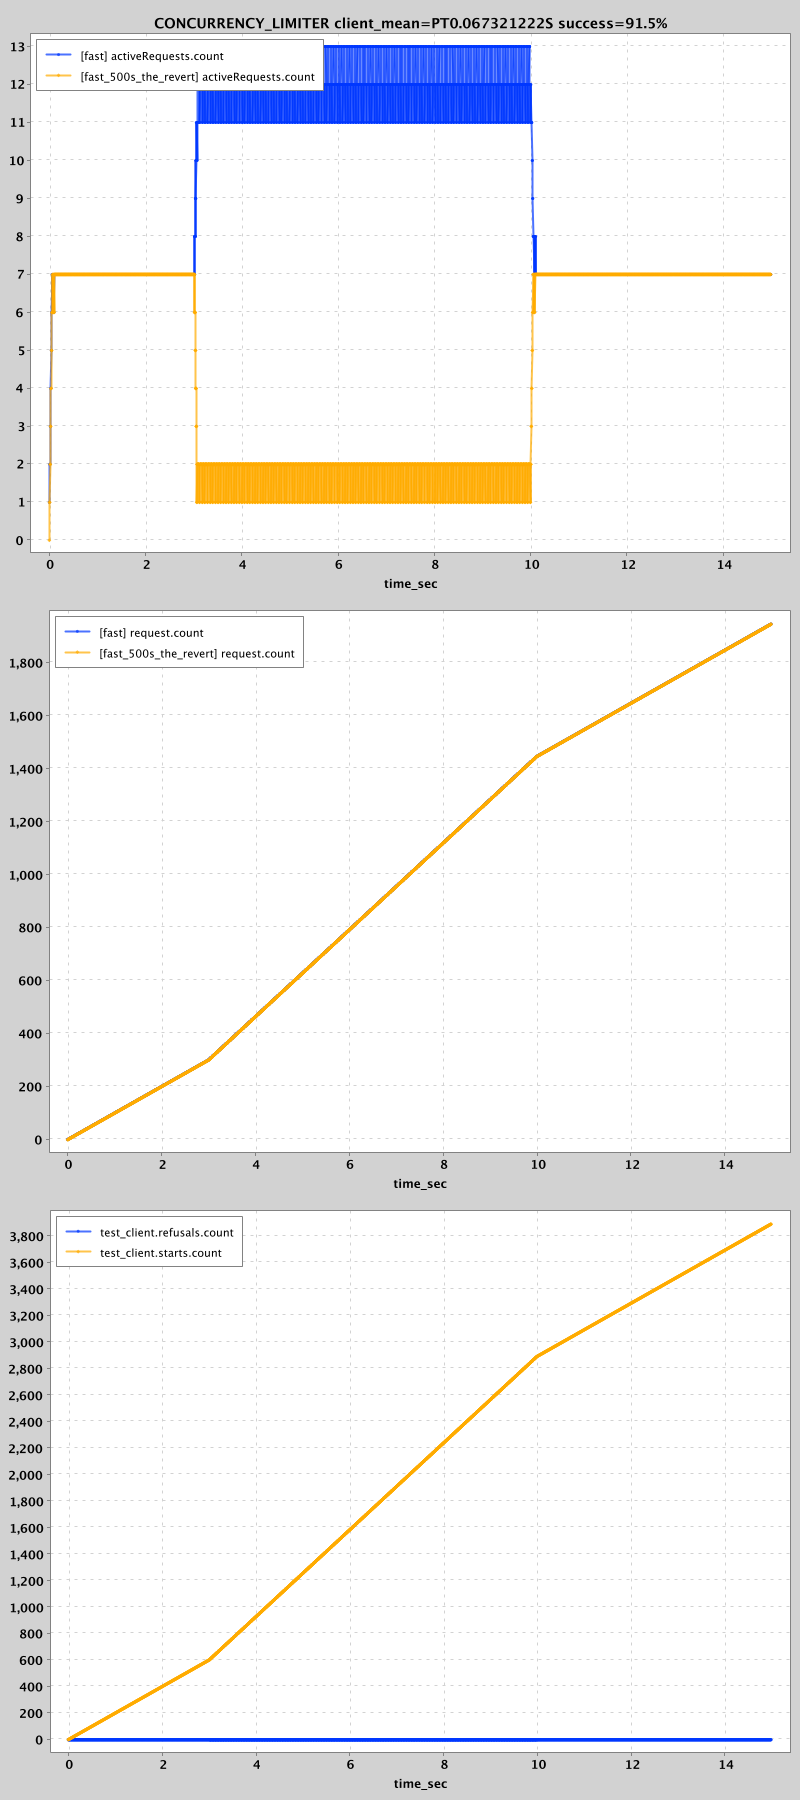
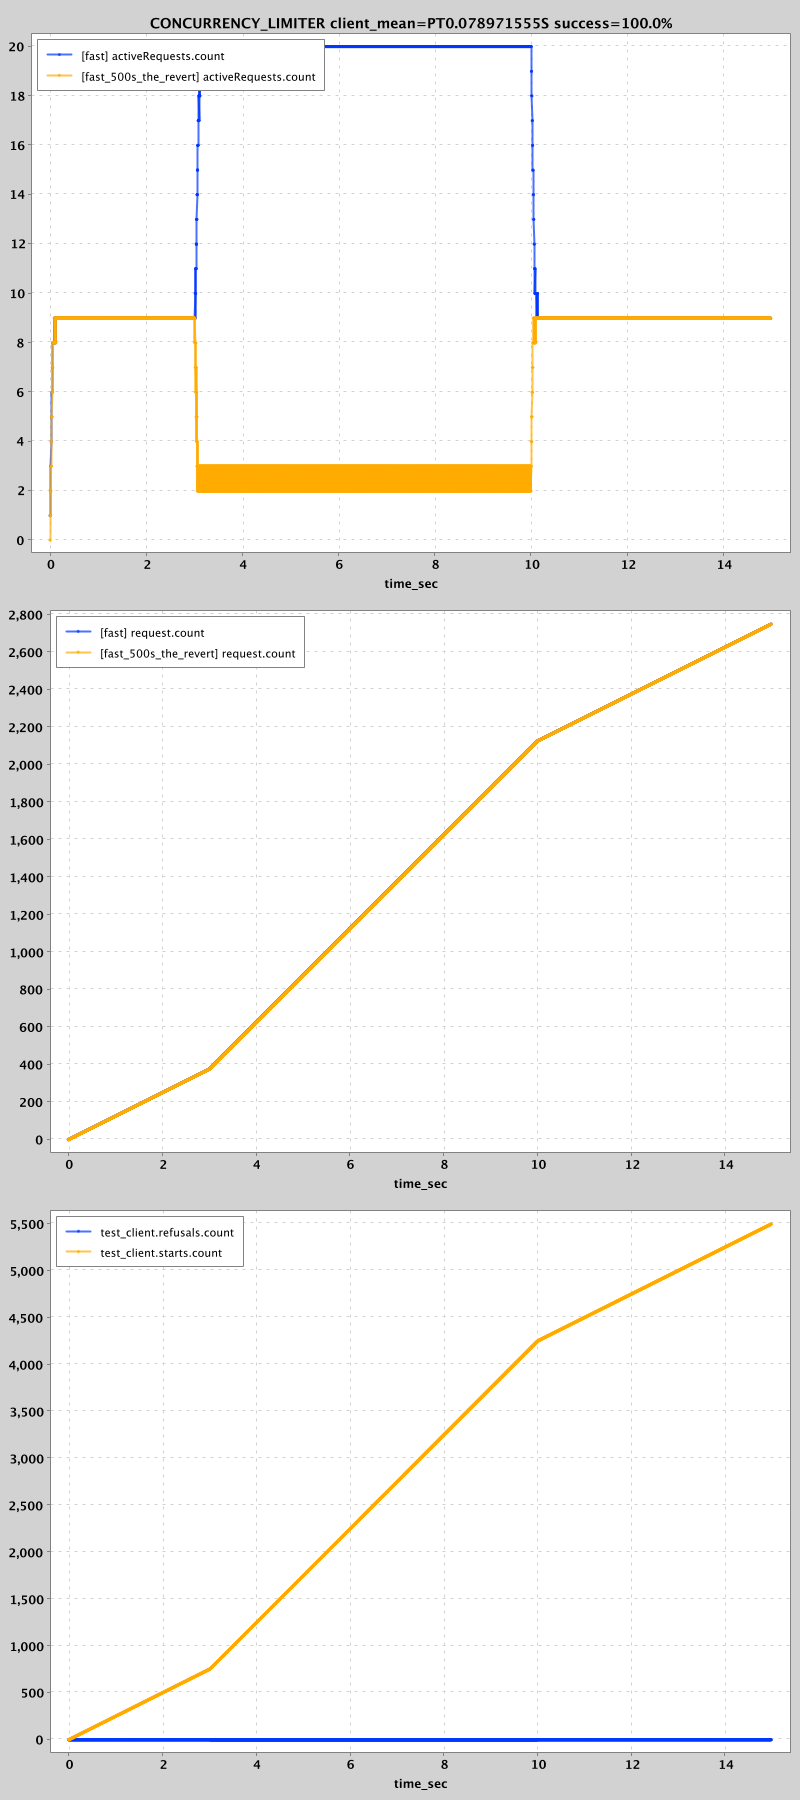
Way nicer API

diff --git a/simulation/src/test/java/com/palantir/dialogue/core/SimulationTest.java b/simulation/src/test/java/com/palantir/dialogue/core/SimulationTest.java
@@ -198,8 +198,8 @@ public class SimulationTest {
         Channel channel = strategy.getChannel.apply(simulation, servers);
 
         result = Benchmark.builder()
-                .requestsPerSecond(200)
-                .numRequests(3000)
+                .requestsPerSecond(250)
+                .sendUntil(Duration.ofSeconds(15))
                 .channel(channel)
                 .simulation(simulation)
                 .run();
